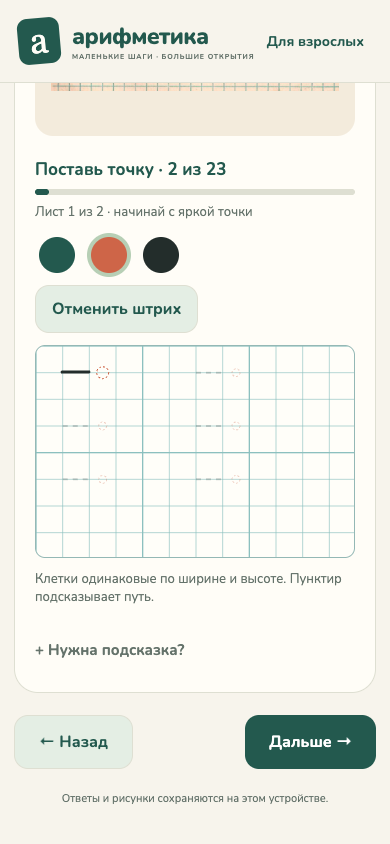
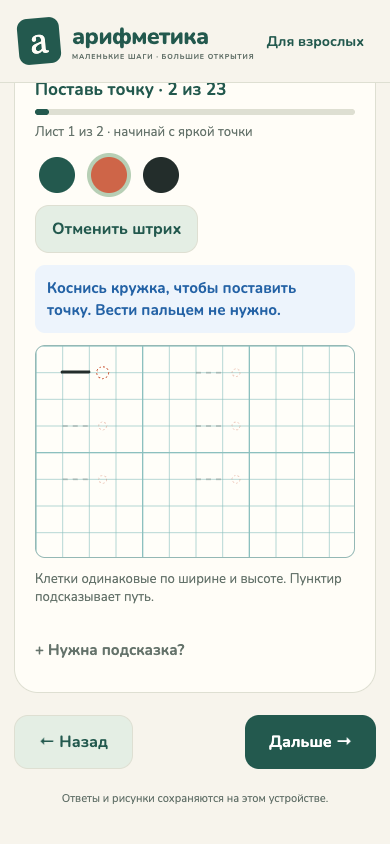
feat: guide drawing strokes with direction arrows and hints

Changed region(s): [[0.0923, 0.0924, 0.9231, 0.4005]]

diff --git a/src/components/DrawingPad.tsx b/src/components/DrawingPad.tsx
@@ -3,6 +3,7 @@ import { View, Text, Pressable, Platform } from "react-native";
 import Svg, { Line, Path, Circle } from "react-native-svg";
 import type { Stroke, Point, TracePlan } from "../content/types";
 import { traceProgress, matchesTrace } from "../lib/tracing";
+import { traceDirections } from "../lib/traceDirections";
 import { colors as c, fonts as f } from "../theme";
 import { Button, ProgressBar } from "./Controls";
 export function DrawingPad({
@@ -30,6 +31,10 @@ export function DrawingPad({
     rows = trace?.rows ?? 8;
   const height = (width * rows) / columns,
     color = chosenColor ?? target?.color ?? "#232d2b";
+  const arrows = target ? traceDirections(target, { columns, rows }) : [];
+  const cellSize = width / columns;
+  const arrowSize = Math.max(5, Math.min(11, cellSize * 0.28));
+  const directionColor = "#2563a6";
   const coords = (e: any): Point => ({
     x: Math.max(0, Math.min(1, e.nativeEvent.locationX / width)),
     y: Math.max(0, Math.min(1, e.nativeEvent.locationY / height)),
@@ -54,7 +59,7 @@ export function DrawingPad({
           ? "Выбери цвет, как у пунктира."
           : target.dot
             ? "Поставь маленькую точку в кружке."
-            : "Попробуй ещё раз: начни с яркой точки и веди по пунктиру до конца.",
+            : "Попробуй ещё раз: начни с яркой точки и веди по пунктиру в сторону синих стрелок.",
       );
     }
   }
@@ -123,6 +128,25 @@ export function DrawingPad({
           Отменить штрих
         </Button>
       </View>
+      {target && (
+        <View
+          testID="drawing-direction-hint"
+          style={{ padding: 12, borderRadius: 10, backgroundColor: "#edf4fc" }}
+        >
+          <Text
+            style={{
+              fontFamily: f.bold,
+              color: directionColor,
+              fontSize: 15,
+              lineHeight: 22,
+            }}
+          >
+            {target.dot
+              ? "Коснись кружка, чтобы поставить точку. Вести пальцем не нужно."
+              : "Синие стрелки показывают, куда вести палец. Начни с яркой точки и двигайся по пунктиру в сторону стрелок. Сами стрелки обводить не нужно."}
+          </Text>
+        </View>
+      )}
       <View
         accessibilityLabel="Поле для рисования"
         onLayout={(e) => setWidth(e.nativeEvent.layout.width)}
@@ -247,6 +271,36 @@ export function DrawingPad({
                 strokeLinejoin="round"
               />
             ))}
+            {arrows.map(({ point, direction }, i) => {
+              const x = point.x * cellSize,
+                y = point.y * cellSize;
+              const backX = x - direction.x * arrowSize;
+              const backY = y - direction.y * arrowSize;
+              const wingX = -direction.y * arrowSize * 0.65;
+              const wingY = direction.x * arrowSize * 0.65;
+              const path = `M ${backX + wingX} ${backY + wingY} L ${x} ${y} L ${backX - wingX} ${backY - wingY}`;
+              return (
+                <React.Fragment key={`direction-${i}`}>
+                  <Path
+                    d={path}
+                    stroke="#fffef9"
+                    strokeWidth={4}
+                    fill="none"
+                    strokeLinecap="round"
+                    strokeLinejoin="round"
+                  />
+                  <Path
+                    testID="drawing-direction-arrow"
+                    d={path}
+                    stroke={directionColor}
+                    strokeWidth={2}
+                    fill="none"
+                    strokeLinecap="round"
+                    strokeLinejoin="round"
+                  />
+                </React.Fragment>
+              );
+            })}
           </Svg>
         </View>
       </View>

diff --git a/tests/trace-directions.test.ts b/tests/trace-directions.test.ts
@@ -1,0 +1,97 @@
+import { test } from "node:test";
+import assert from "node:assert/strict";
+import { traceDirections } from "../src/lib/traceDirections.ts";
+import { allBlocks } from "../src/content/book.ts";
+import type { TraceTarget } from "../src/content/types.ts";
+const grid = { columns: 12, rows: 8 };
+const target = (points: [number, number][]): TraceTarget => ({
+  label: "test",
+  color: "#232d2b",
+  points: points.map(([x, y]) => ({ x: x / 12, y: y / 8 })),
+});
+test("arrows follow line direction and each side of a closed square", () => {
+  for (const [a, b] of [
+    [
+      [1, 1],
+      [2, 1],
+    ],
+    [
+      [2, 1],
+      [1, 1],
+    ],
+    [
+      [1, 1],
+      [1, 2],
+    ],
+    [
+      [1, 2],
+      [2, 1],
+    ],
+  ] as [number, number][][]) {
+    const arrows = traceDirections(target([a, b]), grid);
+    assert.ok(arrows.length);
+    for (const arrow of arrows) {
+      assert.ok(
+        arrow.direction.x * (b[0] - a[0]) + arrow.direction.y * (b[1] - a[1]) >
+          0,
+      );
+    }
+  }
+  const arrows = traceDirections(
+    target([
+      [1, 1],
+      [2, 1],
+      [2, 2],
+      [1, 2],
+      [1, 1],
+    ]),
+    grid,
+  );
+  assert.equal(arrows.length, 4);
+  assert.deepEqual(
+    arrows.map((a) => a.direction),
+    [
+      { x: 1, y: 0 },
+      { x: 0, y: 1 },
+      { x: -1, y: 0 },
+      { x: 0, y: -1 },
+    ],
+  );
+});
+test("every non-dot textbook trace has finite arrows, including curves and digits", () => {
+  for (const block of allBlocks) {
+    if (block.kind !== "draw" || !block.trace) continue;
+    for (const t of block.trace.stages.flat()) {
+      const arrows = traceDirections(t, block.trace);
+      if (t.dot) assert.deepEqual(arrows, []);
+      else {
+        assert.ok(arrows.length > 0, block.id);
+        for (const a of arrows)
+          assert.ok(
+            [a.point.x, a.point.y, a.direction.x, a.direction.y].every(
+              Number.isFinite,
+            ),
+          );
+      }
+    }
+  }
+});
+test("tall notebook grids retain vertical direction; duplicate points are harmless", () => {
+  const t = target([
+    [1, 1],
+    [1, 1],
+    [1, 2],
+  ]);
+  const arrows = traceDirections(t, { columns: 12, rows: 22 });
+  assert.ok(arrows.every((a) => a.direction.x === 0 && a.direction.y === 1));
+  assert.deepEqual(
+    traceDirections(
+      target([
+        [1, 1],
+        [1, 1],
+      ]),
+      grid,
+    ),
+    [],
+  );
+});

diff --git a/src/lib/traceDirections.ts b/src/lib/traceDirections.ts
@@ -1,0 +1,47 @@
+import type { TraceTarget, Point } from "../content/types.ts";
+
+/** Place arrowheads along the actual ordered path, in notebook-cell coordinates. */
+export function traceDirections(
+  target: TraceTarget,
+  grid: { columns: number; rows: number },
+): { point: Point; direction: Point }[] {
+  if (target.dot) return [];
+  const points = target.points.map((p) => ({
+    x: p.x * grid.columns,
+    y: p.y * grid.rows,
+  }));
+  const segments = points
+    .slice(1)
+    .map((end, i) => {
+      const start = points[i];
+      return {
+        start,
+        end,
+        length: Math.hypot(end.x - start.x, end.y - start.y),
+      };
+    })
+    .filter((s) => s.length > 1e-8);
+  const length = segments.reduce((n, s) => n + s.length, 0);
+  if (!length) return [];
+  const count = Math.max(1, Math.min(12, Math.round(length)));
+  return Array.from({ length: count }, (_, i) => {
+    let distance = (length * (i + 0.5)) / count;
+    let segment = segments.at(-1)!;
+    for (const s of segments) {
+      segment = s;
+      if (distance <= s.length) break;
+      distance -= s.length;
+    }
+    const direction = {
+      x: (segment.end.x - segment.start.x) / segment.length,
+      y: (segment.end.y - segment.start.y) / segment.length,
+    };
+    return {
+      point: {
+        x: segment.start.x + direction.x * distance,
+        y: segment.start.y + direction.y * distance,
+      },
+      direction,
+    };
+  });
+}

diff --git a/docs/VALIDATION.md b/docs/VALIDATION.md
@@ -5,7 +5,7 @@
 | Проверка | Результат |
 |---|---|
 | TypeScript | PASS |
-| Node test runner | 276 тестов PASS |
+| Node test runner | 279 тестов PASS |
 | Номера заданий | 1–892 без пропусков; продолжения № 331/489/887 представлены на обеих страницах |
 | Ресурсы | 488 иллюстраций и 144 скана существуют и включены в приложение |
 | Все поля | Для каждого блока `work` проверены полный ответ, пустое поле, изменение ответа и необходимость проверки |
@@ -56,3 +56,10 @@
 - № 798: восстановлен третий столбик обычных примеров рядом с выражениями с пропусками.
 - Извлечение больше не удаляет деление после русского союза «и»; смешанные блоки сохраняют оба вида выражений.
 - 144 теста проверяют постраничный состав упражнений и иллюстраций. Дополнительные тесты сравнивают распознаваемые печатные примеры из ТЗ с полями ответа, включая повторные вхождения.
+
+## Подсказки направления — 10 сентября 2026
+
+- Синие стрелки следуют порядку точек текущего штриха: прямые, диагонали, замкнутые фигуры, кривые и цифры. Общий компонент используется и для столбиков клеток.
+- Над полем объясняется значение стрелок; для точки вместо направления показана инструкция коснуться кружка без движения.
+- TypeScript и 279 Node-тестов PASS; локальный браузерный прогон 144 страниц / 1345 блоков PASS. Прогон проверяет наличие подсказок и стрелок в каждом статическом задании на рисование.
+- Проверен свежий мобильный снимок квадрата: стрелки направлены вдоль всех четырёх сторон. Этот результат относится к локальной версии; отдельный GitHub CI для изменения ещё не запускался.

diff --git a/docs/MANUAL_TESTING.md b/docs/MANUAL_TESTING.md
@@ -63,6 +63,8 @@
 | № 298 и 353 | Столбики вертикальные, непрерывные и начинаются от общей нижней линии; 20 клеток не переносятся в горизонтальный ряд |
 | Остальные прописи | Все элементы и цвета сверить с соответствующим оригиналом, пройти все листы шаблона, а не только первый |
 
+Для каждого текущего штриха должны быть видны синие стрелки по направлению движения и пояснение их значения. На квадрате проверьте стрелки вдоль всех четырёх сторон, на кривых и цифрах — по ходу линии. После принятия штриха подсказка переходит к следующему; после отмены возвращается. Для точки стрелок нет: написано, что нужно коснуться кружка без движения.
+
 Для каждого типа попробуйте правильный штрих, половину штриха, неверный цвет, смещение на половину клетки и касание без движения. Неверные варианты не должны давать успех. Проверка допускает небольшую неточность руки: идеальной геометрической точности от ребёнка не требуется. Обведите несколько элементов пальцем; если правильные попытки ребёнка регулярно отвергаются, это отдельный дефект допуска.
 
 ## Полная сверка 144 страниц
